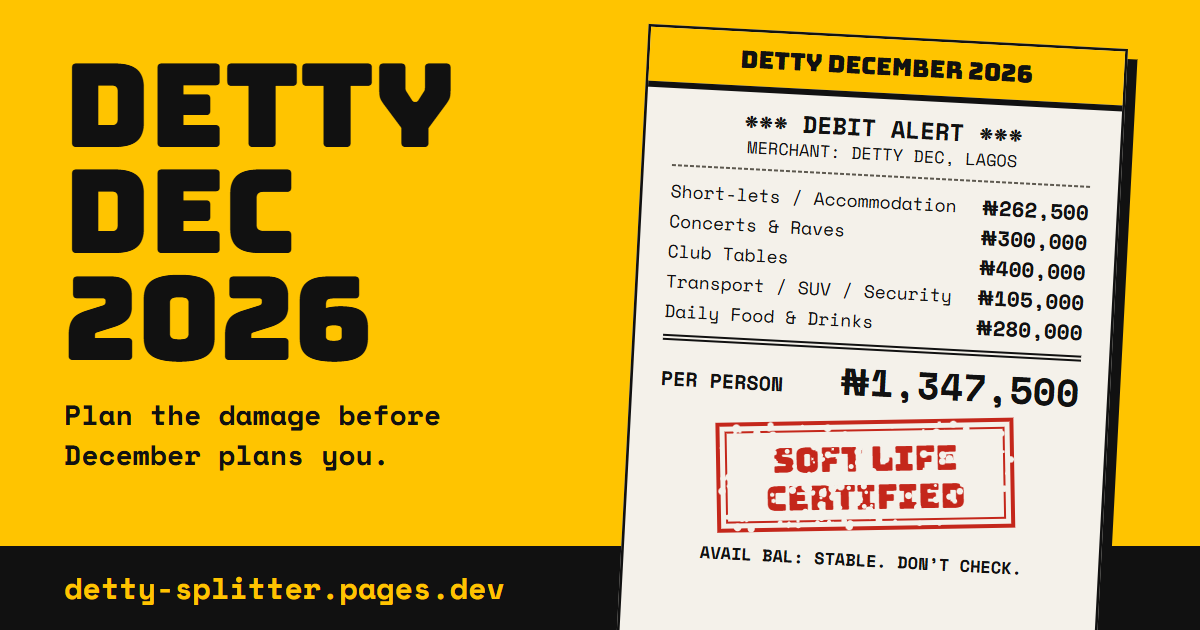
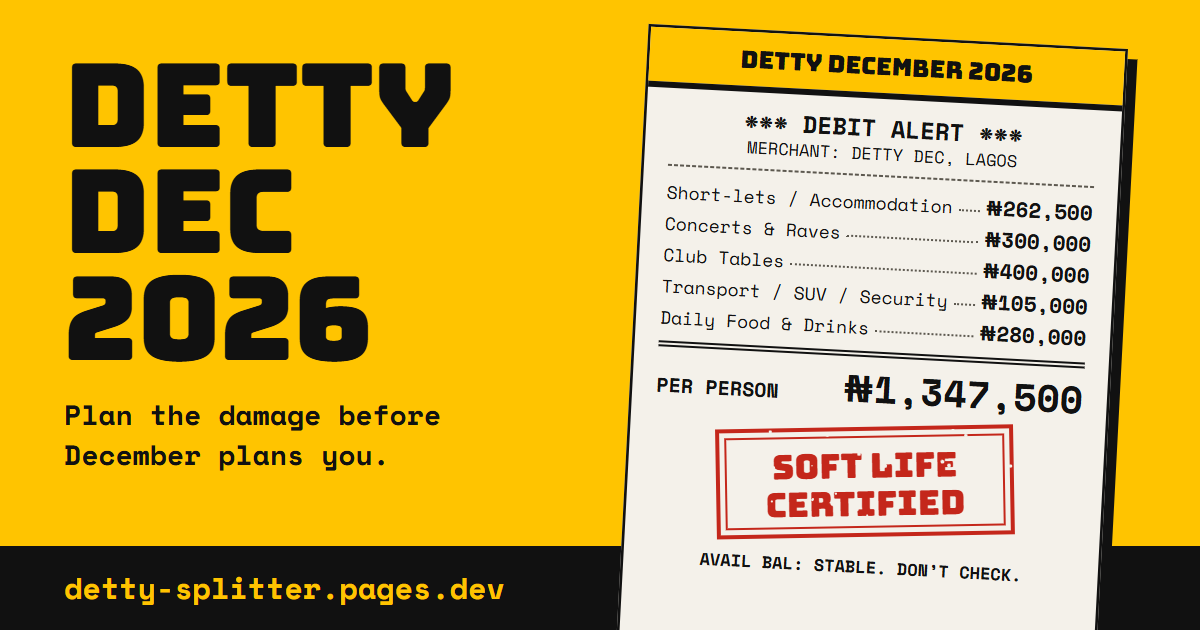
fix(T10.2): lighten OG stamp speckles, add receipt row leaders, mark done

Changed region(s): [[0.5242, 0.2714, 0.925, 0.9349], [0.5858, 0.2413, 0.6475, 0.2714]]

diff --git a/BUILD_PLAN.md b/BUILD_PLAN.md
@@ -222,11 +222,11 @@ Goal: every number editable, every mode switchable, safely.
   - Done when: card renders only when the flag is exactly `true` **and** the URL parses as `https:`; no leftover gap otherwise; `rel="noopener noreferrer sponsored"` and disclosure line when set; component tests cover on, off, invalid URL.
   - Depends on: T6.3.
   - **Done: built and verified by the author (26 Nov 2026): all yarn suites pass, and the screenshot review (320, 360, 768 and 1280px, light and dark, with and without the disclosure, focus ring, card hidden) found the issues listed under "Fixed after the screenshot review", all fixed and re-checked.** **New files:** `components/CtaCard.tsx` (server component; props `enabled`, `url`, `title`, `buttonText`, `disclosure`, defaulting to config like `Footer`'s `credit`), `tests/CtaCard.test.tsx`. **Changed:** `config/index.ts` (`CTA_TITLE`, `CTA_BUTTON_TEXT`, `CTA_DISCLOSURE`, placeholders), `app/page.tsx` (`<CtaCard />` after `StickyColumn`), `scripts/check-icons.mjs` (`ArrowSquareOutIcon`), `.env.example` (comment), DESIGN §2, §4, §5.12 and §9, DATA_MODEL §3.3, ARCHITECTURE Flow C. **Decisions:** (1) the card re-checks the URL with `parseHttpsUrl`, so a bad value can never become a link and the invalid-URL tests need no config mock; (2) `CTA_DISCLOSURE` non-empty means the disclosure line and `sponsored` together, empty means neither (own link); (3) a blank title or button text hides the card (an unnamed link); (4) the card sits between `main` and the footer, outside the grid, with its outer div part of the card (Chrome bounds a sticky grid item by the whole grid container, so a card in a second grid row was overlapped by the sticky column at 1280px, found in the screenshot review); (5) `ArrowSquareOutIcon` and an `aria-label` ending "(opens in a new tab)" mark the new tab, imported from `@phosphor-icons/react/ssr` since the card is a server component; (6) DESIGN §4 item 9 no longer lists a footer disclosure, it lives in the card. **Fixed after the screenshot review:** the overlap above; in dark mode the plate's border is `--danfo` so it lines up with the buttons (a `#111` border made it 2px narrower); the disclosure has `text-balance` (no lone "commission."); the extra 24px of top padding from 1280px is gone (the gap under Copy link was about 85px, against about 56px on mobile and about 57px between Export and Copy link). **Left as is, on purpose:** with the placeholder copy the balanced disclosure breaks after "We"; the wording is replaced in C1. **Not in this slice:** the `cta_click` event (T10.3), real copy (C1). **Checks:** all yarn suites pass on the real repo (author, 26 Nov 2026; totals not recorded). **Before launch:** `CTA_DISCLOSURE` stays empty unless the link is affiliate or paid, and the real title and button text come in C1.
-- [ ] **T10.2 OG image, metadata, favicon** (0.3h)
+- [x] **T10.2 OG image, metadata, favicon** (0.3h)
   - Build: a sample danfo debit-alert receipt as `og-image.png`, title and description in the app's voice, favicon (₦ on yellow, or a simple yellow block if ₦ is illegible at 16px).
   - Done when: pasting the URL into WhatsApp and X shows the image and title (note: WhatsApp and X cache previews, so test with a fresh URL if needed).
   - Depends on: T1.3.
-  - **Built (27 Nov 2026), not yet verified by the author: the check below is open, so the box stays unticked.** **New files:** `public/og-image.png` (captured by the author, see steps), `app/icon.svg`, `app/apple-icon.png`, `tests/metadata.test.ts`; `app/favicon.ico` replaced. **Changed:** `config/index.ts` (`SITE_NAME`, `SITE_TITLE`, `SITE_DESCRIPTION`, `OG_IMAGE_*`), `app/layout.tsx` (`metadataBase`, `openGraph`, `twitter` with `summary_large_image`), DESIGN §7.3 and §12, DATA_MODEL §3.3, ARCHITECTURE §7. **Decisions:** (1) the card is drawn from `buildReceiptView(createInitialState())`, so it shows the real default receipt (₦1,347,500 per person, Soft Life Certified), not typed-in numbers; (2) it is captured from a throwaway `app/og-source` page with the real fonts, then that page is deleted (no canvas library, no network needed, and the fonts match the app); (3) the ₦ favicon is drawn as paths and kept after a 16px check; (4) the image is a static file in `public/` as ARCHITECTURE says, with `metadataBase` making the URL absolute; (5) no `og:locale` is set (not sure `en_NG` is a valid Open Graph locale). **Open:** paste a fresh URL (`?v=1`) into WhatsApp and X; the tests cannot prove how those apps render it. Umami and `track()`** (0.3h)
+  - **Done: built and verified by the author (27 Nov 2026): all yarn suites pass, and the preview shows the image and title in WhatsApp and X.** **New files:** `public/og-image.png` (captured by the author from the temporary page), `app/icon.svg`, `app/apple-icon.png`, `tests/metadata.test.ts`; `app/favicon.ico` replaced. **Changed:** `config/index.ts` (`SITE_NAME`, `SITE_TITLE`, `SITE_DESCRIPTION`, `OG_IMAGE_*`), `app/layout.tsx` (`metadataBase`, `openGraph`, `twitter` with `summary_large_image`), DESIGN §7.3 and §12, DATA_MODEL §3.3, ARCHITECTURE §7. **Decisions:** (1) the card is drawn from `buildReceiptView(createInitialState())`, so it shows the real default receipt (₦1,347,500 per person, Soft Life Certified), not typed-in numbers; (2) it is captured from a throwaway `app/og-source` page with the real fonts, then that page is deleted (no canvas library, no network needed, and the fonts match the app); (3) the ₦ favicon is drawn as paths and kept after a 16px check; (4) the image is a static file in `public/` as ARCHITECTURE says, with `metadataBase` making the URL absolute; (5) no `og:locale` is set (not sure `en_NG` is a valid Open Graph locale). **Fixed after the screenshot review (three rounds):** stamp speckles too heavy for the small stamp (letters lost, "CERTIFIED" read as "CERTIXIED"), so 45 speckles at half radius; amounts hard to follow across the 3° tilt, so dotted leaders on the text baseline; the first leader attempt wrapped the two longest labels and pushed the balance line off the card, fixed with `nowrap` and non-shrinking label and amount, 24px side padding. The final render was checked by the author. Umami and `track()`** (0.3h)
   - Build: Umami script in `layout.tsx` (site ID in config), `track()` adapter that never throws, events `receipt_export`, `link_copy`, `cta_click` (only when shown), optional `preset_selected`, with the property rules in DATA_MODEL §7.
   - Done when: events fire once per action; no amounts, headcounts, rates or share strings are ever sent; the app works with the script blocked.
   - Depends on: T9.2, T8.2.

diff --git a/DESIGN.md b/DESIGN.md
@@ -430,7 +430,7 @@ One static `public/og-image.png`, **1200 × 630**, under 300 KB (WhatsApp is com
 | Card | `--danfo` yellow, fixed in both themes. Flat, no gradient or blur (§0 principle 4) |
 | Left | `DETTY / DEC / 2026` in Bungee 116px, then the tagline from §9 in Space Mono 700 28px, all `--danfo-ink` |
 | Bottom bar | 84px `--danfo-ink` with the site host in `--danfo`, Space Mono 700 30px (the damage-meter pairing, §5.7) |
-| Slip | Cream `--receipt-*` paper, 480px wide, tilted 3°, 3px ink border and one hard shadow (10px), running off the bottom edge. Danfo band + stripe, `*** DEBIT ALERT ***`, the five lines, `PER PERSON` total, the speckled stamp (same seeded `makeSpeckles` as §7.1, rotated −4°), the balance line |
+| Slip | Cream `--receipt-*` paper, 480px wide, tilted 3°, 3px ink border and one hard shadow (10px), running off the bottom edge. Danfo band + stripe, `*** DEBIT ALERT ***`, the five lines (label, 2px dotted leader on the text baseline, amount; labels and amounts `nowrap`), `PER PERSON` total, the speckled stamp (the same seeded `makeSpeckles` as §7.1, rotated −4°, but 45 speckles at half radius, because full-size speckles on a stamp this small punched out letters), the balance line |
 
 Rules: keep everything that matters inside the middle 1200 × 600 and away from the outer ~60px, because X crops to 2:1 and thumbnails crop edges. Text is at least 17px on the 1200px card (decorative detail; the readable parts are the wordmark, the per-person total and the stamp). The Bungee wordmark carries no currency symbol (§1). The slip text uses the ₦ from the naira subset, so the page that is captured must have the fonts loaded.
 
@@ -545,5 +545,5 @@ Tier badges and taglines live in `data/`, with the new **balance lines** (draft,
 - Confirm remaining Phosphor icon names at install (§2).
 - Final badge names, taglines and balance lines (your copy).
 - Print-feed animation and Android haptic (optional, cut first).
-- ~~Design the **OG image** as a sample danfo debit-alert receipt (S9).~~ Done in T10.2, see §7.3. Still to confirm on a real WhatsApp and X paste.
+- ~~Design the **OG image** as a sample danfo debit-alert receipt (S9).~~ Done in T10.2, see §7.3, and checked in WhatsApp and X.
 - ~~Favicon: a black ₦ on a danfo-yellow square (confirm ₦ renders at 16px, or use a simple yellow block with a black stripe).~~ Done in T10.2: ₦ kept, pixel-snapped at 16px (§7.3).
